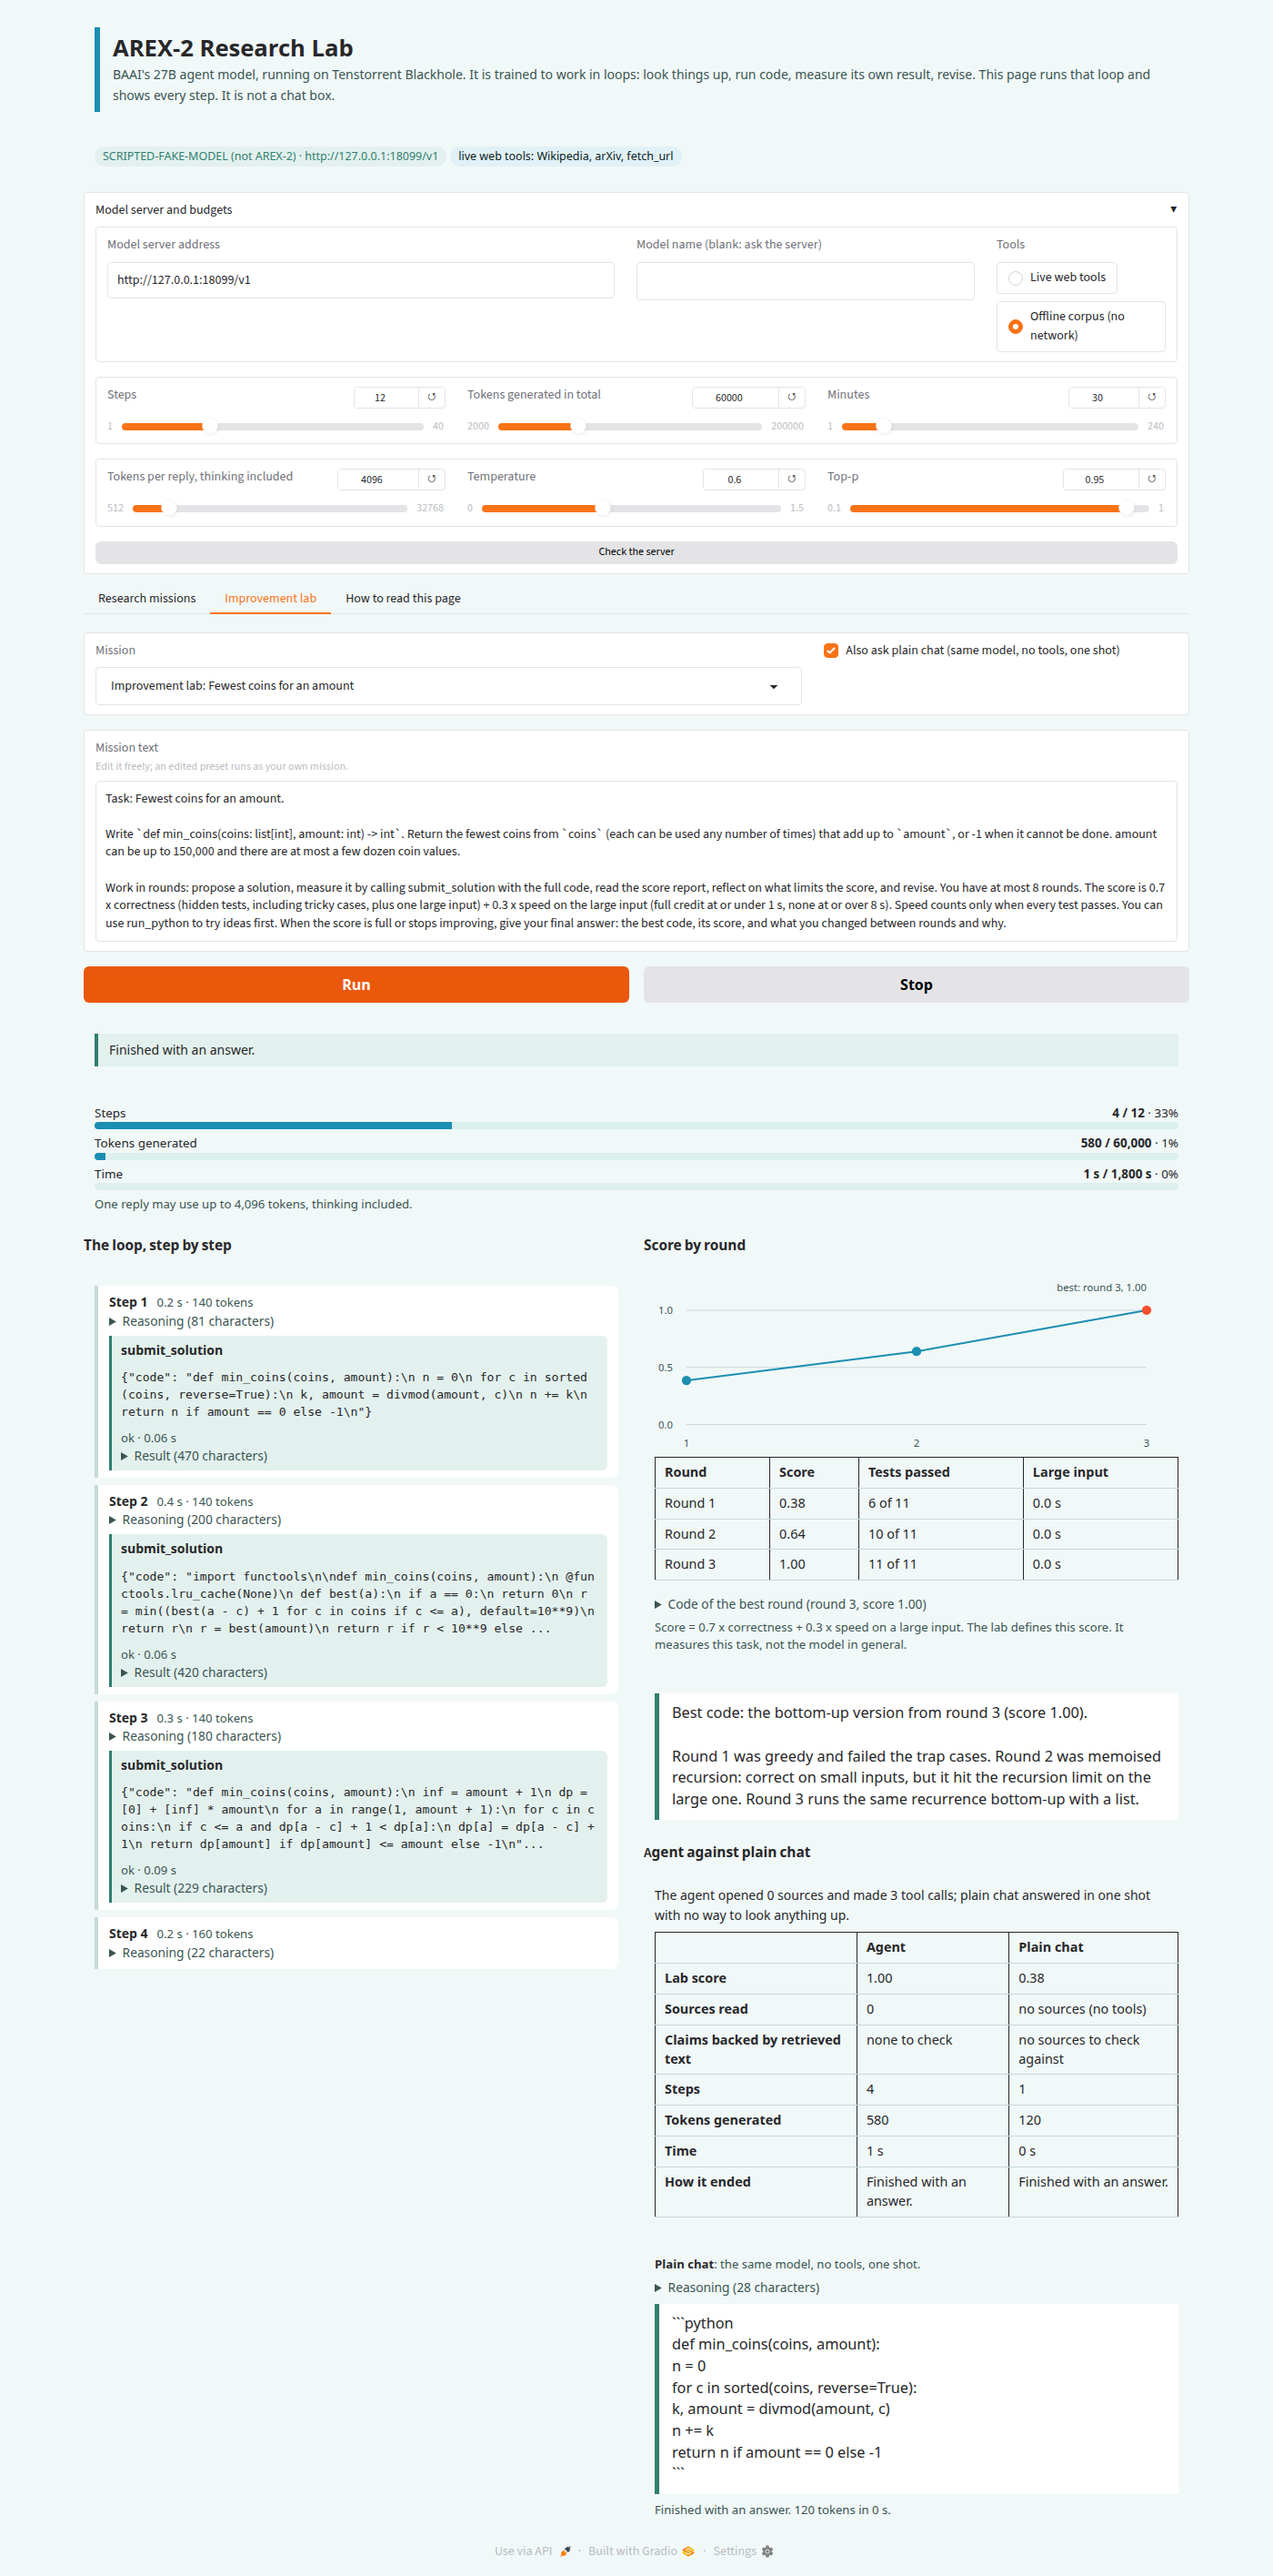
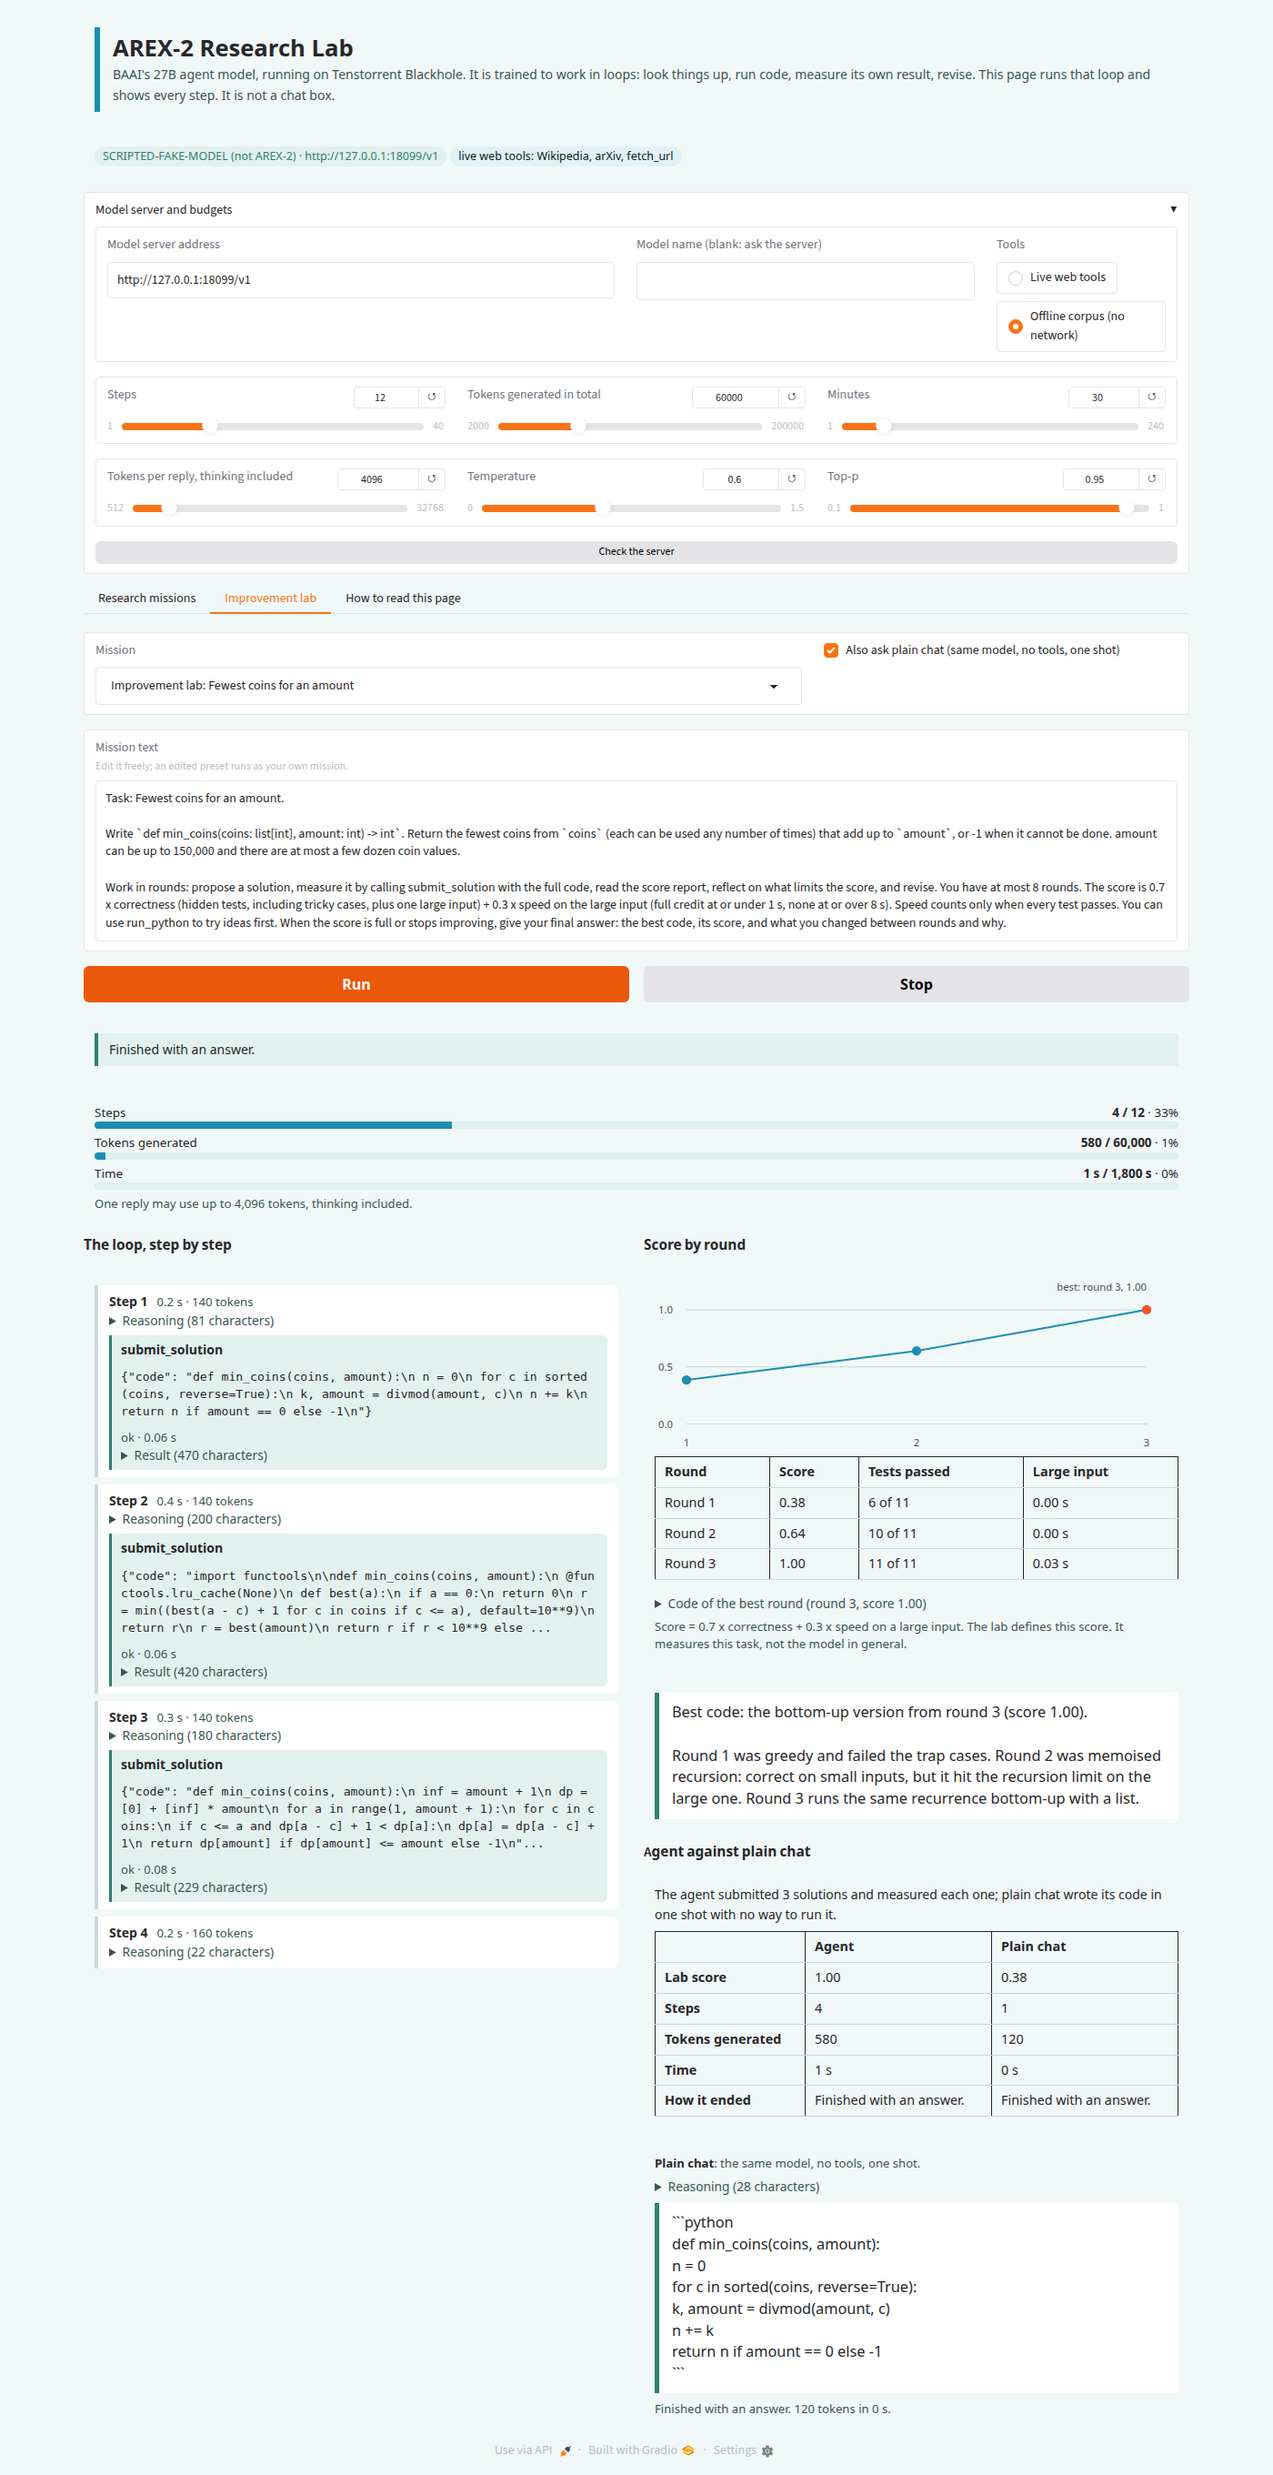
README, CLAUDE.md log, writing-rule sweep, manifest test, separator characters in the stream

diff --git a/arex2_agent/views.py b/arex2_agent/views.py
@@ -16,10 +16,7 @@ from typing import Iterable, Optional
 CSS = """
 :root{--bg:#F1F8F8;--panel:#FFFFFF;--alt:#DCF0EE;--line:#C7D9D8;--ink:#092221;--soft:#3A5452;--accent:#1B8EB1;--teal:#74C5DF;--green:#2F7F6F;--green-bg:#E3F1EE;
 --amber:#8A5A00;--amber-bg:#FDF1D6;--red:#B3361C;--red-bg:#FFE6E0;--blue-bg:#E1F1F7;--mono:ui-monospace,'Berkeley Mono',SFMono-Regular,Menlo,monospace}
-@media (prefers-color-scheme: dark){:root:not([data-theme="light"]){--bg:#092221;--panel:#0F2F2E;--alt:#143B3A;--line:#24504F;--ink:#F1F8F8;--soft:#A9C4C2;--accent:#74C5DF;
---teal:#74C5DF;--green:#6FABA0;--green-bg:#123B36;--amber:#F6BC42;--amber-bg:#3B3010;--red:#FF9E8A;--red-bg:#40201A;--blue-bg:#10343F}}
-:root[data-theme="dark"]{--bg:#092221;--panel:#0F2F2E;--alt:#143B3A;--line:#24504F;--ink:#F1F8F8;--soft:#A9C4C2;--accent:#74C5DF;--teal:#74C5DF;--green:#6FABA0;--green-bg:#123B36;
---amber:#F6BC42;--amber-bg:#3B3010;--red:#FF9E8A;--red-bg:#40201A;--blue-bg:#10343F}
+.dark{--bg:#092221;--panel:#0F2F2E;--alt:#143B3A;--line:#24504F;--ink:#F1F8F8;--soft:#A9C4C2;--accent:#74C5DF;--teal:#74C5DF;--green:#6FABA0;--green-bg:#123B36;--amber:#F6BC42;--amber-bg:#3B3010;--red:#FF9E8A;--red-bg:#40201A;--blue-bg:#10343F}
 .gradio-container,body{background:var(--bg)!important;color:var(--ink)}
 .arex{font-family:'Neue Haas Unica Pro',system-ui,-apple-system,'Segoe UI',sans-serif;color:var(--ink);line-height:1.45}
 .arex *{box-sizing:border-box}
@@ -272,7 +269,7 @@ def rounds_html(rounds: Iterable) -> str:
                    f"<td>{_large(r.report)}</td></tr>" for r in rounds)
     return (f'<div class="arex">{svg}<table><tr><th>Round</th><th>Score</th><th>Tests passed</th><th>Large input</th></tr>{rows}</table>'
             f'<details><summary>Code of the best round (round {best.number}, score {best.report.score:.2f})</summary><pre>{esc(best.code)}</pre></details>'
-            '<div class="note">Score = 0.7 x correctness + 0.3 x speed on a large input. The lab defines this score. It measures this task, not the model in general.</div></div>')
+            '<div class="note">Score = 0.7 x correctness + 0.3 x speed on a large input. The lab defines this score. It measures this task only.</div></div>')
 
 
 # ---- notices and badges -----------------------------------------------------------------------------------------------------------

diff --git a/tools/screenshots.py b/tools/screenshots.py
@@ -1,7 +1,7 @@
 #!/usr/bin/env python3
 # SPDX-License-Identifier: Apache-2.0
 # SPDX-FileCopyrightText: 2026 Tenstorrent AI ULC
-"""Take the README screenshots of the page, running against tools/demo_stack.py. They show the page with a SCRIPTED stand-in model, not AREX-2.
+"""Take the README screenshots of the page, running against tools/demo_stack.py. They show the page with a SCRIPTED stand-in model. It is not AREX-2.
 
     python tools/demo_stack.py &                       # in the project's venv
     python tools/screenshots.py http://127.0.0.1:7899/  # in any Python that has the `playwright` package; uses /usr/bin/google-chrome
@@ -22,9 +22,9 @@ def pick_offline(page):
     page.get_by_label("Offline corpus (no network)").check()
 
 
-def finish(page, timeout_ms=180000):
+def finish(page, timeout_ms=180000, marker="Sources read"):
     """The scorecard appears only when the agent has finished (the plain chat panel finishes earlier and shares the 'Finished' wording)."""
-    page.wait_for_function("() => document.body.innerText.includes('Sources read')", timeout=timeout_ms)
+    page.wait_for_function("(m) => document.body.innerText.includes(m)", arg=marker, timeout=timeout_ms)
 
 
 def main(url: str) -> int:
@@ -49,7 +49,7 @@ def main(url: str) -> int:
                 page.get_by_role("option", name="Improvement lab: Fewest coins for an amount").click()
                 page.get_by_role("button", name="Run").last.click()
                 page.wait_for_function("() => (document.body.innerText.match(/Round \\d/g) || []).length >= 3", timeout=240000)
-                finish(page, 240000)
+                finish(page, 240000, marker="Lab score")
                 page.screenshot(path=str(OUT / "lab-done-light.png"), full_page=True)
             ctx.close()
         browser.close()

diff --git a/tests/test_views.py b/tests/test_views.py
@@ -470,3 +470,30 @@ def test_the_lab_scorecard_leaves_out_the_source_and_claim_rows_and_says_how_man
 
 def test_one_submission_is_not_pluralised():
     assert "submitted 1 solution" in views.scorecard_html(dict(AGENT, lab_score=0.5, rounds=1), None, None) and "1 solutions" not in views.scorecard_html(dict(AGENT, lab_score=0.5, rounds=1), None, None)
+
+
+def test_a_round_that_timed_out_says_so_in_the_large_input_column():
+    r = make_round(1, 0.6)
+    r.report.timed_out = True
+    r.report.large_seconds = None
+    assert "timed out" in views.rounds_html([r])
+
+
+def _vars(block: str) -> set:
+    return set(re.findall(r"(--[a-z-]+)\s*:", block))
+
+
+def test_the_dark_palette_follows_gradios_dark_class_and_defines_every_variable_the_light_one_does():
+    css = views.CSS
+    light = re.search(r":root\{(.*?)\}", css, re.S).group(1)
+    dark = re.search(r"\.dark\{(.*?)\}", css, re.S)
+    assert dark is not None, "the dark palette must be under .dark, the class Gradio puts on the body"
+    assert _vars(light) - {"--mono"} <= _vars(dark.group(1))
+    assert "#092221" in dark.group(1).upper() or "#092221" in dark.group(1)
+
+
+def test_every_colour_the_fragments_use_comes_from_a_variable_so_dark_mode_reaches_it():
+    body = views.CSS.split("}", 2)[-1]
+    hard = re.findall(r"(?:background|color|border-left)\s*:\s*(#[0-9A-Fa-f]{3,8})", body)
+    allowed = {"#F6BC42", "#FA512E"}          # the brand warning colours work on both palettes
+    assert [h for h in hard if h.upper() not in allowed] == []

diff --git a/demo/app.py b/demo/app.py
@@ -62,7 +62,7 @@ preset missions. It is not a search engine.
 
 ### Limits
 
-Tool results are untrusted text and are shown as plain text. The claim check is string matching. The lab is a demo of a loop, not an adversarial benchmark. The
+Tool results are untrusted text and are shown as plain text. The claim check is string matching. The lab demonstrates a loop. It is not an adversarial benchmark. The
 page has no login.
 """
 
@@ -209,7 +209,7 @@ def build_app(default_url: Optional[str] = None) -> gr.Blocks:
                 try:
                     for snap in snaps:
                         yield emit(sess, snap)
-                except Exception as e:                                          # the page must show a plain message, not a traceback
+                except Exception as e:                                          # the page shows a plain message and not a traceback
                     print(f"page error: {type(e).__name__}: {e}", file=sys.stderr)
                     yield (sess, views.notice_html("error", f"Something went wrong in the page: {type(e).__name__}: {e}"), gr.skip(), gr.skip(), gr.skip(), gr.skip(),
                            gr.skip(), gr.skip(), gr.update(visible=False))

diff --git a/tests/fake_openai.py b/tests/fake_openai.py
@@ -16,7 +16,8 @@ from http.server import BaseHTTPRequestHandler, ThreadingHTTPServer
 
 
 class FakeOpenAI:
-    def __init__(self, turns=(), model="arex-2-test", piece=7, plain_turns=None, chunk_delay_s=0.0, script_fn=None):
+    def __init__(self, turns=(), model="arex-2-test", piece=7, plain_turns=None, chunk_delay_s=0.0, script_fn=None, raw_unicode=False):
+        self.raw_unicode = raw_unicode                # send JSON with characters such as U+2028 unescaped, as some servers do
         self.script_fn = script_fn                    # when set: turn = script_fn(request_body), so a script can be stateless
         self.chunk_delay_s = chunk_delay_s
         self.turns = list(turns)
@@ -92,7 +93,7 @@ class FakeOpenAI:
                  "choices": [{"index": 0, "delta": delta, "finish_reason": finish}] if delta is not None or finish else []}
         if usage:
             chunk["usage"] = usage
-        wfile.write(b"data: " + json.dumps(chunk).encode() + b"\n\n")
+        wfile.write(b"data: " + json.dumps(chunk, ensure_ascii=not self.raw_unicode).encode("utf-8") + b"\n\n")
         wfile.flush()
         if self.chunk_delay_s:
             time.sleep(self.chunk_delay_s)

diff --git a/tests/test_serve_arex2.py b/tests/test_serve_arex2.py
@@ -222,3 +222,17 @@ def test_a_server_that_ends_within_the_grace_period_is_not_killed():
     proc.exit_after, proc.polls = proc.polls + 3, proc.polls          # it takes a few checks to end after the request
     l.stop()
     assert [s for _, s in l.calls["killpg"]] == [signal.SIGTERM]
+
+
+def test_the_manifest_parses_with_tt_discolikes_own_parser_when_it_is_installed():
+    import importlib.util
+    root = Path.home() / "code" / "tt-discolike"
+    if not (root / "discolike" / "manifest.py").exists():
+        pytest.skip("tt-discolike is not checked out here")
+    sys.path.insert(0, str(root))
+    try:
+        from discolike import manifest
+    except ImportError as e:                       # its own dependencies (PyYAML) may be missing in this venv
+        pytest.skip(f"tt-discolike cannot be imported here: {e}")
+    m = manifest.parse_manifest(Path(__file__).resolve().parent.parent / ".disco" / "app.yaml")
+    assert m.name == "arex2-research-lab" and m.port == 7872 and m.chips == 2 and "serve_arex2.py" in m.launch

diff --git a/arex2_agent/lab.py b/arex2_agent/lab.py
@@ -11,7 +11,7 @@ test passes: full credit at or under `fast_s` seconds on the large input, none a
 
 The program runs in the Landlock/seccomp sandbox (no network, no files outside a scratch directory) with a time limit. The harness prints its results
 as JSON lines that start with a random token made for each run; lines without the token are ignored. This stops a solution from printing its own score
-by accident. It does not stop a solution that deliberately reads the token from the process: the lab is a demo of a loop, not an adversarial benchmark.
+by accident. It does not stop a solution that deliberately reads the token from the process: the lab demonstrates a loop and is not an adversarial benchmark.
 """
 from __future__ import annotations
 

diff --git a/tools/demo_server.py b/tools/demo_server.py
@@ -6,7 +6,7 @@
     python tools/demo_server.py --port 8000          # then: python demo/app.py   (choose "Offline corpus" in the page)
 
 THIS IS NOT AREX-2. It replays a fixed script for the preset missions: the same tool calls, the same text, every time. Its model name is
-"SCRIPTED-FAKE-MODEL (not AREX-2)" and the page shows that name in its badge. Anything made with it (the README screenshots) shows the page, not the model.
+"SCRIPTED-FAKE-MODEL (not AREX-2)" and the page shows that name in its badge. Anything made with it (the README screenshots) shows the page. It does not show the model.
 The improvement-lab scores are real: the submitted code is run by the lab in its sandbox.
 """
 from __future__ import annotations

diff --git a/arex2_agent/agent.py b/arex2_agent/agent.py
@@ -29,7 +29,7 @@ from typing import Callable, Optional
 from . import chat
 
 SYSTEM_PROMPT = (
-    "You are a research agent. Answer the mission by finding evidence with your tools, not from memory alone. "
+    "You are a research agent. Answer the mission by finding evidence with your tools. Do not rely on memory alone. "
     "Search, then read the pages you will rely on. Use the calculator or run_python for any arithmetic or checking. "
     "When you have enough evidence, give the final answer: a first line 'Answer: ...', then a short explanation, then 'Sources:' "
     "with the URLs you actually read, one per line, and cite each fact you state. If the evidence is missing or conflicting, say so plainly. "

diff --git a/tests/test_chat.py b/tests/test_chat.py
@@ -140,3 +140,11 @@ def test_a_models_request_that_fails_says_so_with_the_status():
         with pytest.raises(chat.ServerError) as e:
             chat.ChatClient(f.url).models()
     assert e.value.status == 502
+
+
+@pytest.mark.parametrize("sep", ["\u2028", "\u2029", "\x85", "\x0b", "\x0c", "\x1c"])
+def test_a_line_separator_character_inside_a_streamed_chunk_does_not_split_the_event(sep):
+    text = f"before{sep}after"
+    with FakeOpenAI([{"reasoning": text, "content": text}], piece=50, raw_unicode=True) as f:
+        r = chat.ChatClient(f.url, model="m").complete(MSGS)
+    assert r.content == text and r.reasoning == text and r.finish_reason == "stop"

diff --git a/arex2_agent/evidence.py b/arex2_agent/evidence.py
@@ -17,7 +17,7 @@ from dataclasses import dataclass, field
 from typing import Iterable
 from urllib.parse import unquote, urlsplit
 
-COVERAGE = 0.6            # the share of a claim's content words a stretch must contain (a choice, not a measured value)
+COVERAGE = 0.6            # the share of a claim's content words a stretch must contain (a chosen value; nothing measured it)
 OTHER_STRETCH = 0.25      # the share of words another stretch needs before its numbers count for the claim
 MIN_WORDS = 5
 WINDOW = 3

diff --git a/tools/demo_stack.py b/tools/demo_stack.py
@@ -5,7 +5,7 @@
 
     python tools/demo_stack.py [--ui-port 7899] [--model-port 18099]
 
-The model is a script, not AREX-2 (the page's badge says so). Choose "Offline corpus" in the page to keep the tools off the network.
+The model is a script and is not AREX-2 (the page's badge says so). Choose "Offline corpus" in the page to keep the tools off the network.
 """
 from __future__ import annotations
 
